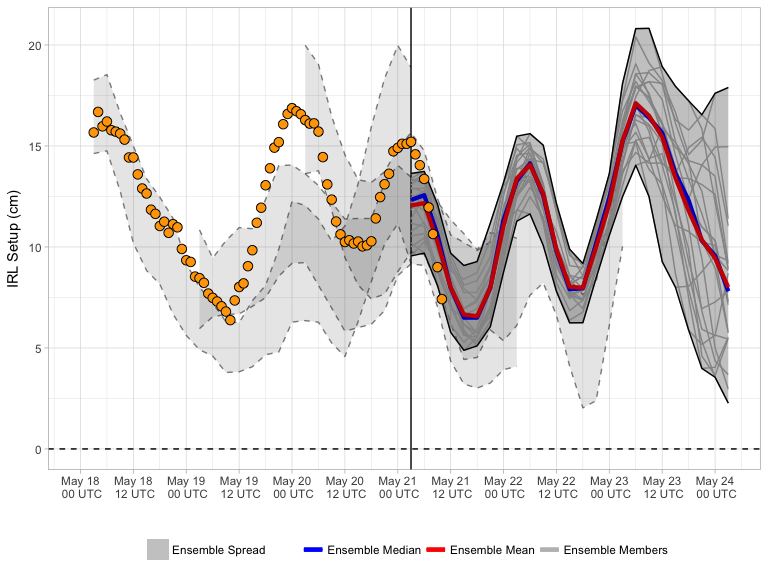
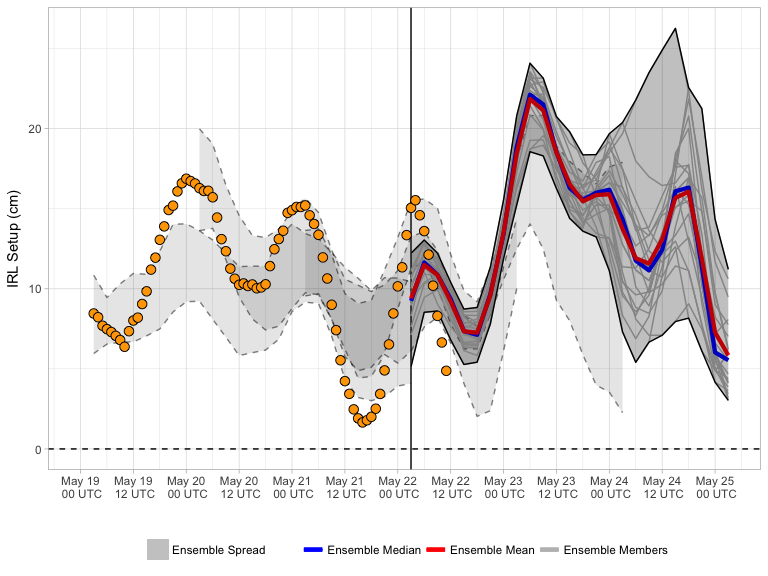
20170522 forecast update

diff --git a/docs/index.md b/docs/index.md
@@ -3,7 +3,7 @@ Current Forecast
 
 [![](img/raw_setup.png)](https://bhlmn.github.io/IRLSetup/img/raw_setup.png)
 
-> Forecast valid 2017-05-21 07:05:35.
+> Forecast valid 2017-05-22 07:37:11.
 
 Explanation
 -----------
@@ -15,7 +15,7 @@ water elevation in the northern IRL (near Titusville), and negative
 setup indicates the increase elevation in the southern IRL (near
 Sebastian). The x-axis displays the date and time in UTC. The solid
 vertical line represents the beginning of the most recent ensemble
-forecast (currently 2017-05-20 18:00:00). For this most recent forecast,
+forecast (currently 2017-05-21 18:00:00). For this most recent forecast,
 the ensemble spread (grey shading) is bound by solid black lines, with
 individual members represented by faint grey lines. The ensemble mean
 and median for this are represented by the red and blue curves,
